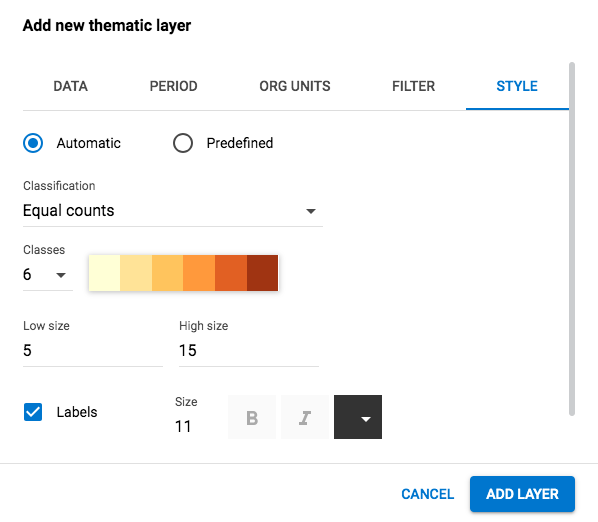
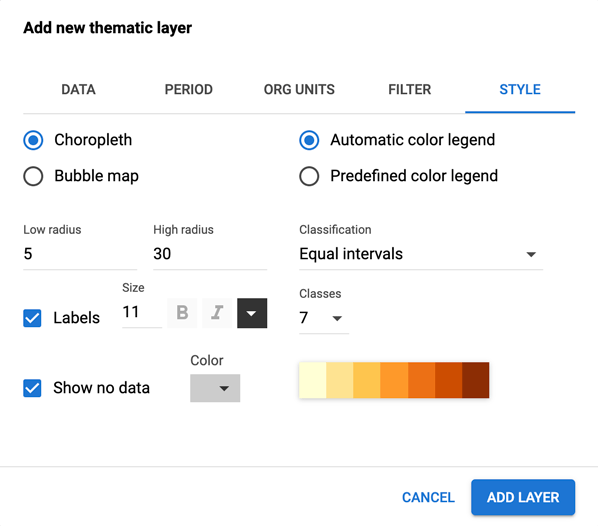
docs: bubble map and do data (DHIS2-8572)

diff --git a/src/commonmark/en/content/user/using-the-maps-app.md b/src/commonmark/en/content/user/using-the-maps-app.md
@@ -347,27 +347,46 @@ layer** selection. This opens the Events layer configuration dialog.
 
     ![](resources/images/maps/maps_thematic_layer_dialog_STYLE.png)
 
-    - Select either **Automatic** or **Predefined** legend.
+    - Select either **Choropleth** or **Bubble maps**.
 
-      - Automatic legend types means that the application will
-        create a legend set for you based on your what method,
-        number of classes, low color and high color you select.
-        Method alludes to the size of the legend classes. Set to
+      - Choropleth will assign a color to each org unit shape according to the
+        data value. This is the recommended technique if the data is normalised
+        (per capita).
+
+      - Bubble map will show data values as proportional circles. Use this
+        technique if the data is not normalised (absolute numbers). The circles are
+        placed in the center of each org unit.
+
+    - Set the **Low radius** and **High radius** for the proportional circles or the
+      point facilities. The circles will be scaled between low and high radius according
+      to the data value. The radius needs to be between 0 and 50 px.
+
+    - **Show labels**: Allows org unit names to be shown on the layer. Font size, weight,
+      style and color can be modified here.
+
+    - **Show no data**: By default org units with missing data values will not show on the map.
+      Check this box if you want to show them with a color. Click the color to change it.
+
+    - Select the legend type:
+
+      - **Automatic color legend**: the application will create a legend for you based on
+        what classification method, number of classes and the color scale you select. Set
+        **Classification** to either:
 
         - Equal intervals
 
-          the range of each interval will be **(highest data value - lowest data value / number of classes)**
+          the range of each interval will be (highest data value - lowest data value / number of classes)
 
         - Equal counts
 
           the legend creator will try to distribute the organisation units evenly.
 
-      - If you have facilities in your thematic layer, you can set
-        the radius for minimum and maximum values by changing the
-        values in the **Low size** and **High size** boxes
-        respectively.
+      - **Predefined color legend**: Select between the predefined legends.
 
-6.  Click **ADD LAYER**.
+      - **Single color legend**: Select the color of the bubbles or circles. Only available
+        for bubble maps.
+
+6)  Click **ADD LAYER**.
 
 ### Modify a thematic layer
 
